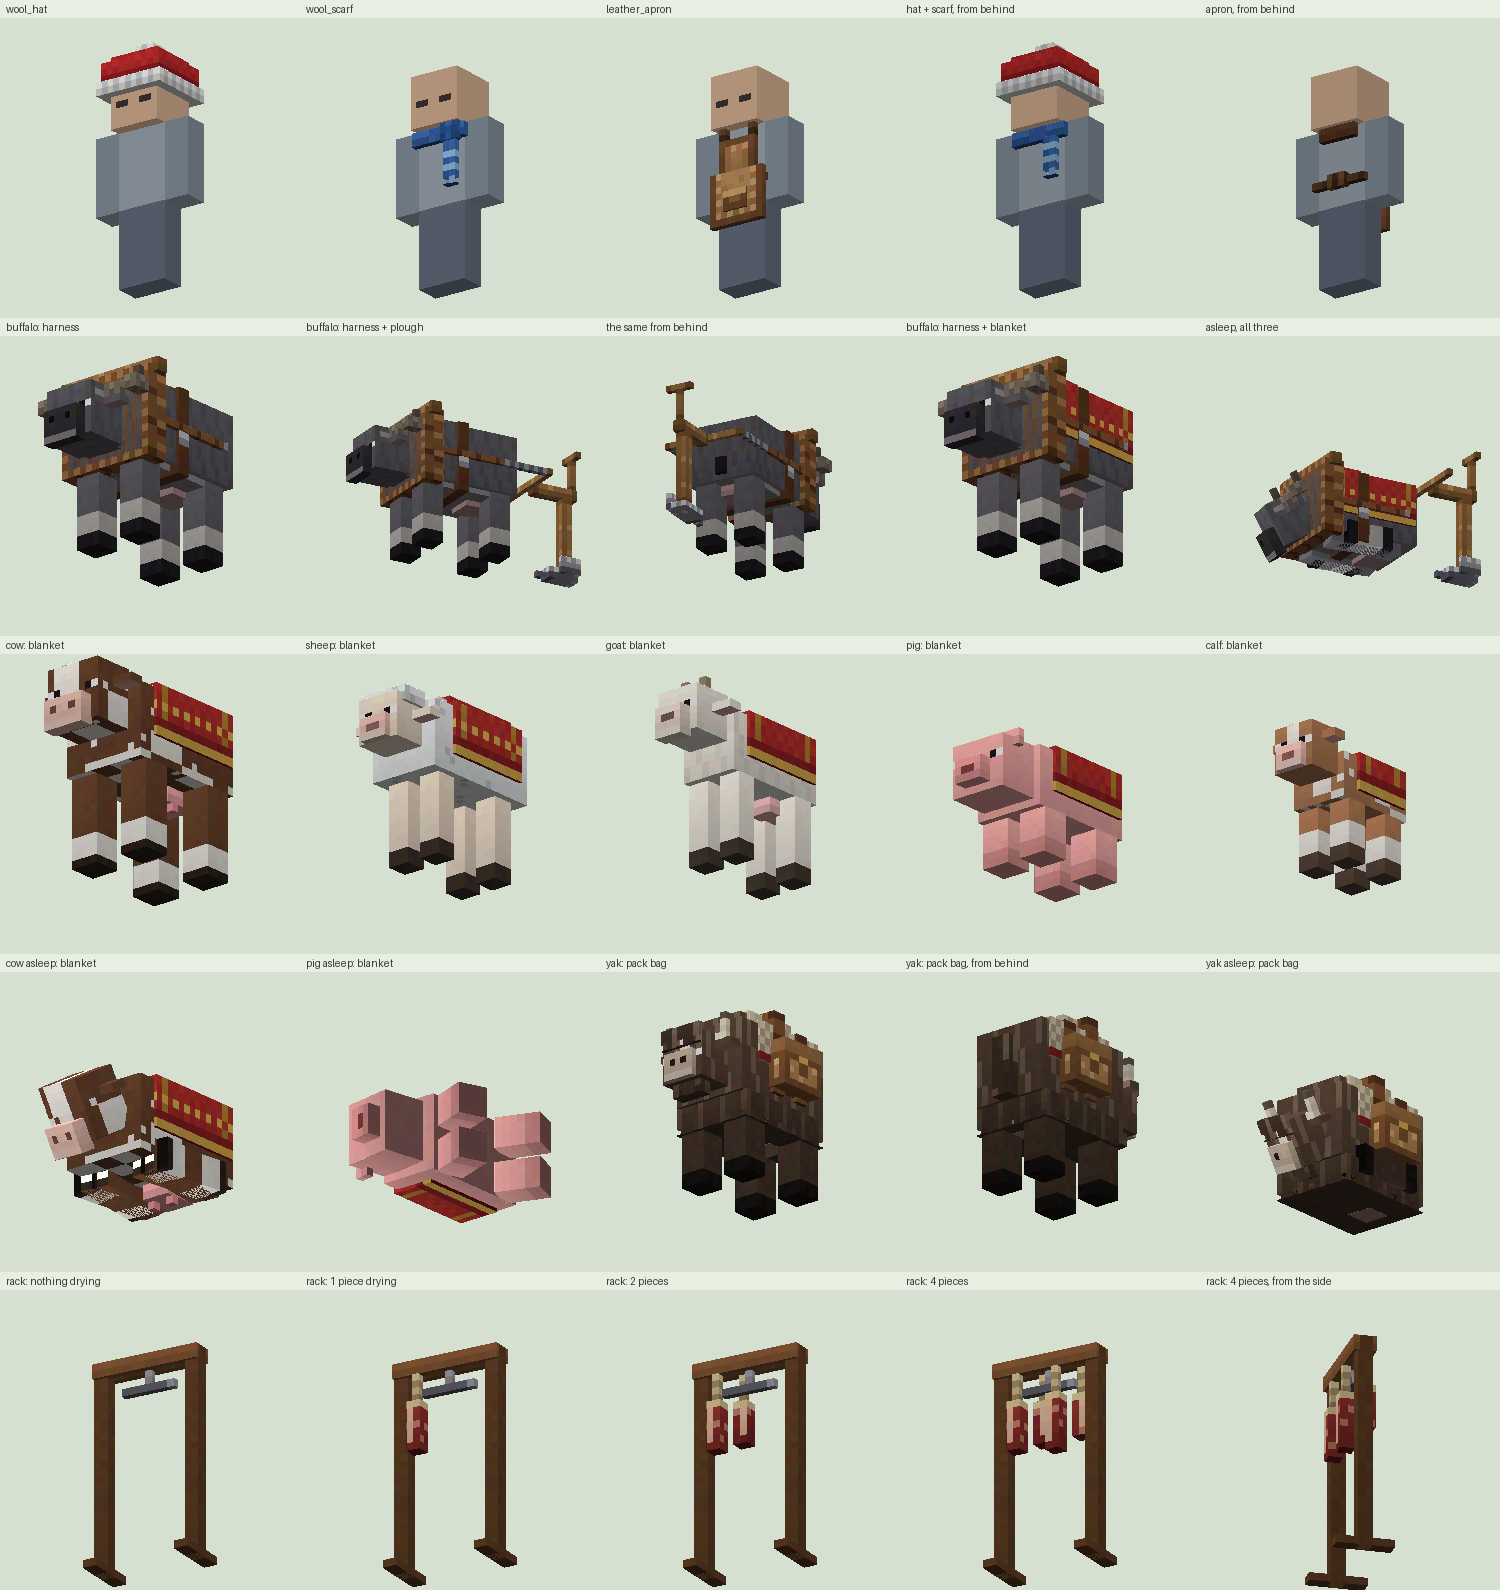
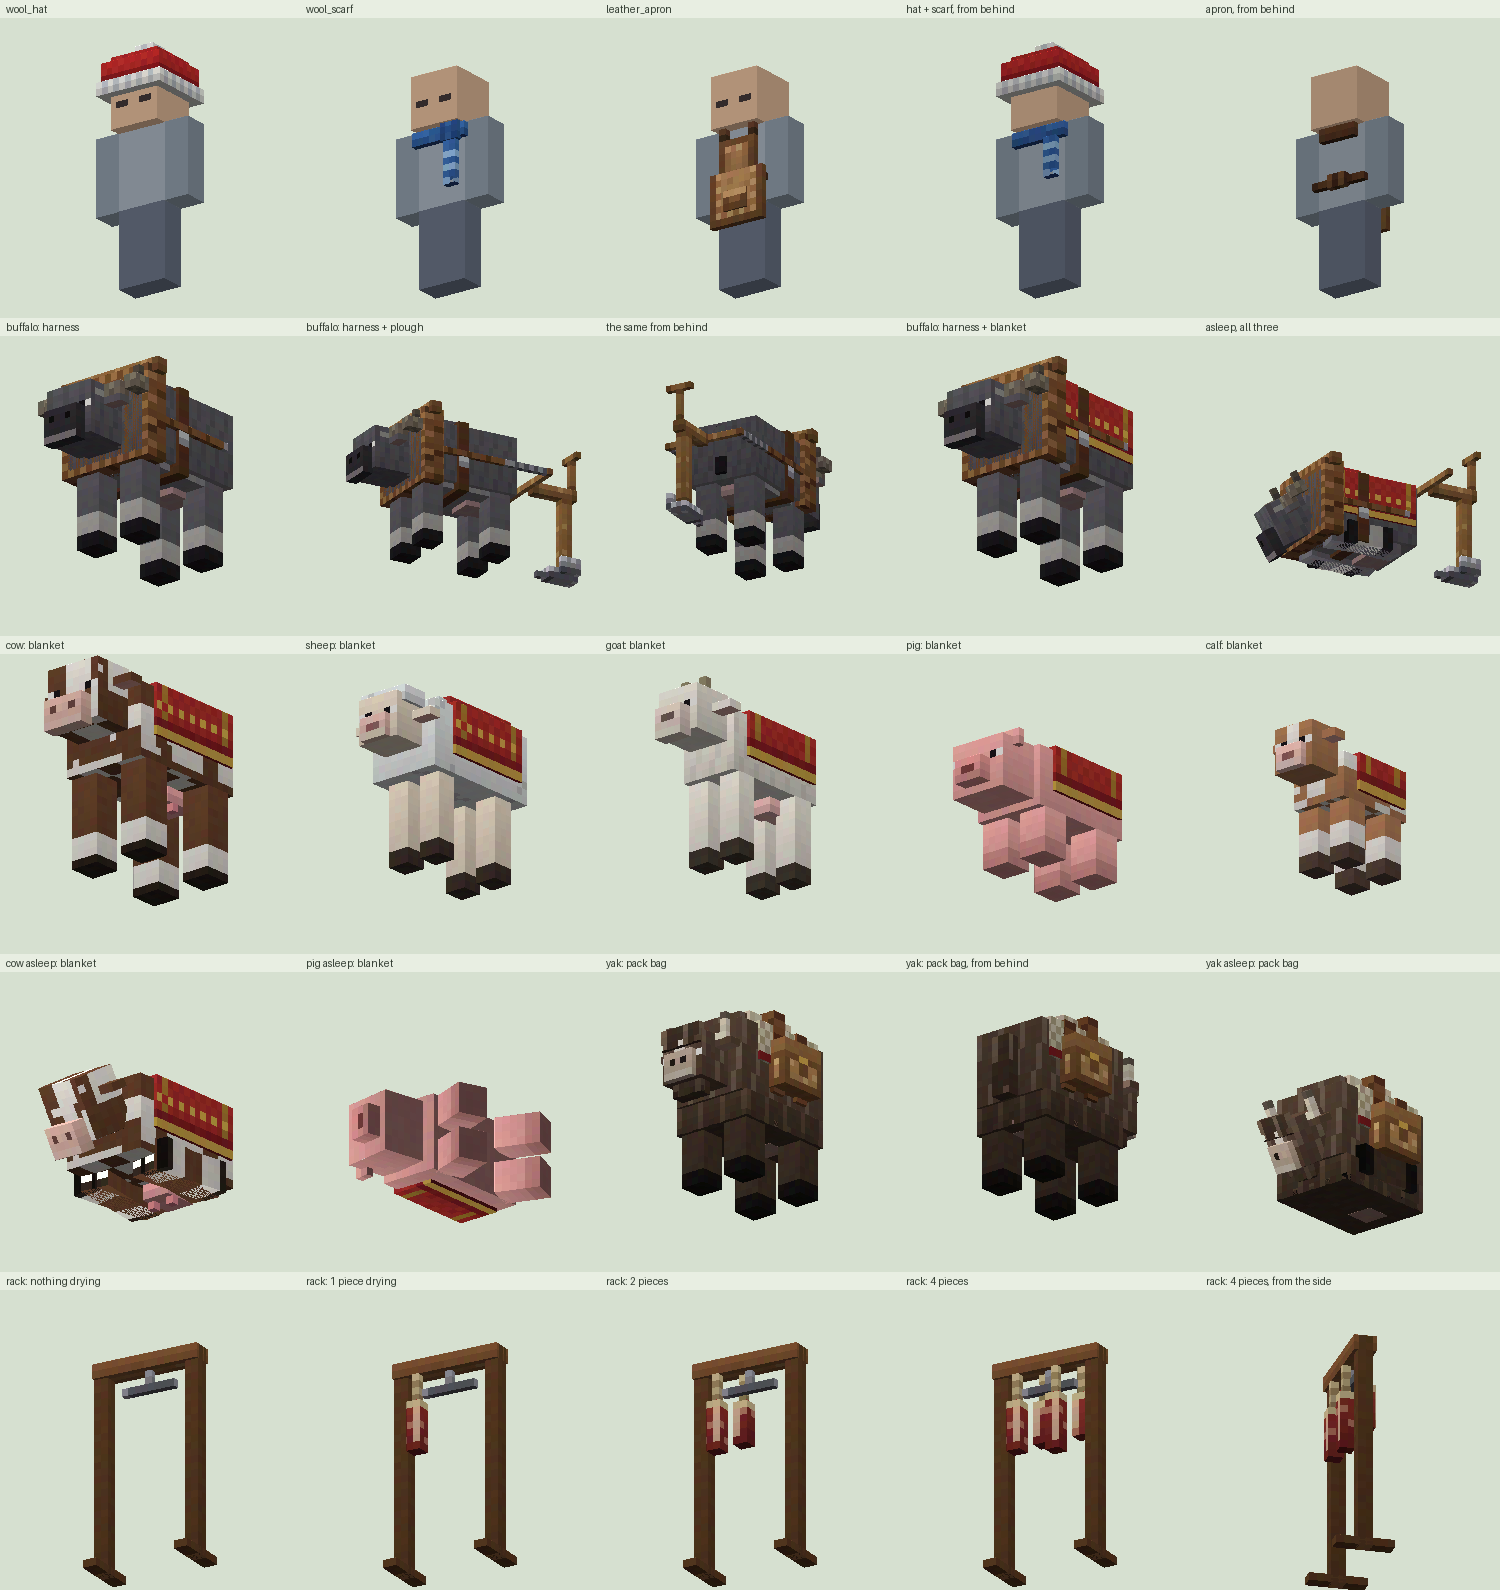
art_src: the gear preview lays box UV out as Bedrock does

diff --git a/art_src/m4_scripts/gear_preview.py b/art_src/m4_scripts/gear_preview.py
@@ -16,14 +16,27 @@ from pathlib import Path
 import numpy as np
 from PIL import Image, ImageDraw
 
-from sleep_preview import face_point, face_rects, molang, rot
+from sleep_preview import face_rects, molang, rot
+
+
+def face_point(cube, face, a, b):
+    """The model point at (a, b) of a face's texels, 0..1 across and down, as Bedrock lays out
+    box UV: the first column of the top, bottom and north faces is at the smallest x, and the
+    left strip of the unwrap ("east" to boxuv.Painter) is the face at the smallest x."""
+    (x, y, z), (w, h, d) = cube["origin"], cube["size"]
+    x1, y1, z1 = x + w, y + h, z + d
+    return {
+        "up": (x + a * w, y1, z1 - b * d), "down": (x + a * w, y, z1 - b * d),
+        "north": (x + a * w, y1 - b * h, z), "south": (x1 - a * w, y1 - b * h, z1),
+        "east": (x, y1 - b * h, z1 - a * d), "west": (x1, y1 - b * h, z + a * d),
+    }[face]
 
 ROOT = Path(__file__).resolve().parents[2]
 RP = ROOT / "packs" / "RP"
 NS = "kaleidoscope_ranching"
 TILE = 300
 PITCH = math.radians(22)
-SHADE = {"up": 1.0, "north": 0.86, "west": 0.72, "east": 0.76, "south": 0.8, "down": 0.55}
+SHADE = {"up": 1.0, "north": 0.86, "west": 0.76, "east": 0.72, "south": 0.8, "down": 0.55}
 BACKGROUND = (214, 224, 208)
 
 
